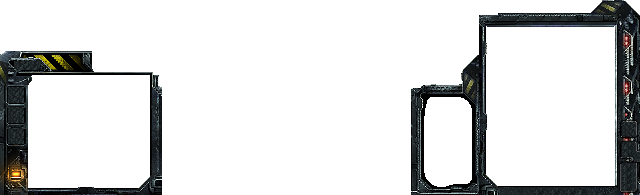
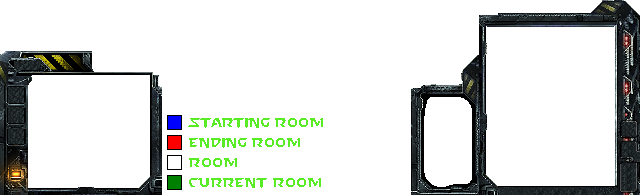
Implemented minimap.

Changed region(s): [[0.25, 0.5846, 0.5, 0.8], [0.25, 0.8615, 0.5, 0.9846], [0.2812, 0.8, 0.375, 0.8615]]

diff --git a/index.html b/index.html
@@ -49,31 +49,31 @@
                 <!-- <h3 id ="health">1000</h3> -->
             </h4>
 
-            <div id="room1" class="room" style="top:39%; left:5.5%"></div>
-            <div id="room2" class="room" style="top:39%; left:9%"></div>
-            <div id="room3" class="room" style="top:39%; left:12.5%"></div>
-            <div id="room4" class="room" style="top:39%; left:16%"></div>
-            <div id="room5" class="room" style="top:39%; left:19.5%"></div>
-            <div id="room6" class="room" style="top:50%; left:5.5%"></div>
-            <div id="room7" class="room" style="top:50%; left:9%"></div>
-            <div id="room8" class="room" style="top:50%; left:12.5%"></div>
-            <div id="room9" class="room" style="top:50%; left:16%"></div>
-            <div id="room10" class="room" style="top:50%; left:19.5%"></div>
-            <div id="room11" class="room" style="top:61%; left:5.5%"></div>
-            <div id="room12" class="room" style="top:61%; left:9%"></div>
-            <div id="room13" class="room" style="top:61%; left:12.5%"></div>
-            <div id="room14" class="room" style="top:61%; left:16%"></div>
-            <div id="room15" class="room" style="top:61%; left:19.5%"></div>
-            <div id="room16" class="room" style="top:72%; left:5.5%"></div>
-            <div id="room17" class="room" style="top:72%; left:9%"></div>
-            <div id="room18" class="room" style="top:72%; left:12.5%"></div>
-            <div id="room19" class="room" style="top:72%; left:16%"></div>
-            <div id="room20" class="room" style="top:72%; left:19.5%"></div>
-            <div id="room21" class="room" style="top:83%; left:5.5%"></div>
-            <div id="room22" class="room" style="top:83%; left:9%"></div>
-            <div id="room23" class="room" style="top:83%; left:12.5%"></div>
-            <div id="room24" class="room" style="top:83%; left:16%"></div>
-            <div id="room25" class="room" style="top:83%; left:19.5%"></div>
+            <div id="room0" class="room" style="top:39%; left:5.5%"></div>
+            <div id="room1" class="room" style="top:39%; left:9%"></div>
+            <div id="room2" class="room" style="top:39%; left:12.5%"></div>
+            <div id="room3" class="room" style="top:39%; left:16%"></div>
+            <div id="room4" class="room" style="top:39%; left:19.5%"></div>
+            <div id="room5" class="room" style="top:50%; left:5.5%"></div>
+            <div id="room6" class="room" style="top:50%; left:9%"></div>
+            <div id="room7" class="room" style="top:50%; left:12.5%"></div>
+            <div id="room8" class="room" style="top:50%; left:16%"></div>
+            <div id="room9" class="room" style="top:50%; left:19.5%"></div>
+            <div id="room10" class="room" style="top:61%; left:5.5%"></div>
+            <div id="room11" class="room" style="top:61%; left:9%"></div>
+            <div id="room12" class="room" style="top:61%; left:12.5%"></div>
+            <div id="room13" class="room" style="top:61%; left:16%"></div>
+            <div id="room14" class="room" style="top:61%; left:19.5%"></div>
+            <div id="room15" class="room" style="top:72%; left:5.5%"></div>
+            <div id="room16" class="room" style="top:72%; left:9%"></div>
+            <div id="room17" class="room" style="top:72%; left:12.5%"></div>
+            <div id="room18" class="room" style="top:72%; left:16%"></div>
+            <div id="room19" class="room" style="top:72%; left:19.5%"></div>
+            <div id="room20" class="room" style="top:83%; left:5.5%"></div>
+            <div id="room21" class="room" style="top:83%; left:9%"></div>
+            <div id="room22" class="room" style="top:83%; left:12.5%"></div>
+            <div id="room23" class="room" style="top:83%; left:16%"></div>
+            <div id="room24" class="room" style="top:83%; left:19.5%"></div>
         </div>
     </div>
 </body>

diff --git a/map.js b/map.js
@@ -13,12 +13,11 @@ function Background() {
     this.facePos = [];
     this.directions = [[-1, 0], [0, 1], [1, 0], [0, -1]];
     this.map = [
-        [0, 0, 0, 0, 0, 0],
-        [0, 0, 0, 0, 0, 0],
-        [0, 0, 0, 0, 0, 0],
-        [0, 0, 0, 0, 0, 0],
-        [0, 0, 0, 0, 0, 0],
-        [0, 0, 0, 0, 0, 0],
+        [0, 0, 0, 0, 0],
+        [0, 0, 0, 0, 0],
+        [0, 0, 0, 0, 0],
+        [0, 0, 0, 0, 0],
+        [0, 0, 0, 0, 0],
     ];
     this.row = 2;
     this.col = 2;
@@ -190,6 +189,24 @@ Background.prototype.validDirection = function () {
                 }
                 this.roomCount++;
             }
+        }
+    }
+
+    this.drawMiniMap();
+}
+
+Background.prototype.drawMiniMap = function () {
+    var roomNum = 0;
+    for (var i = 0; i < this.map.length; i++) {
+        for (var j = 0; j < this.map[i].length; j++) {
+            if (this.map[i][j] === 1) {
+                document.getElementById("room" + roomNum).style.backgroundColor = "white";
+            } else if (this.map[i][j] === 2) {
+                document.getElementById("room" + roomNum).style.backgroundColor = "blue";
+            } else if (this.map[i][j] === 3) {
+                document.getElementById("room" + roomNum).style.backgroundColor = "red";
+            }
+            roomNum++;
         }
     }
 }

diff --git a/style/index.css b/style/index.css
@@ -45,7 +45,7 @@ canvas {
     float: bottom;
     width:20px;
     height:20px;
-    border: 1px solid white;
+    border: 1px solid black;
 }
 
 .spellImg {
